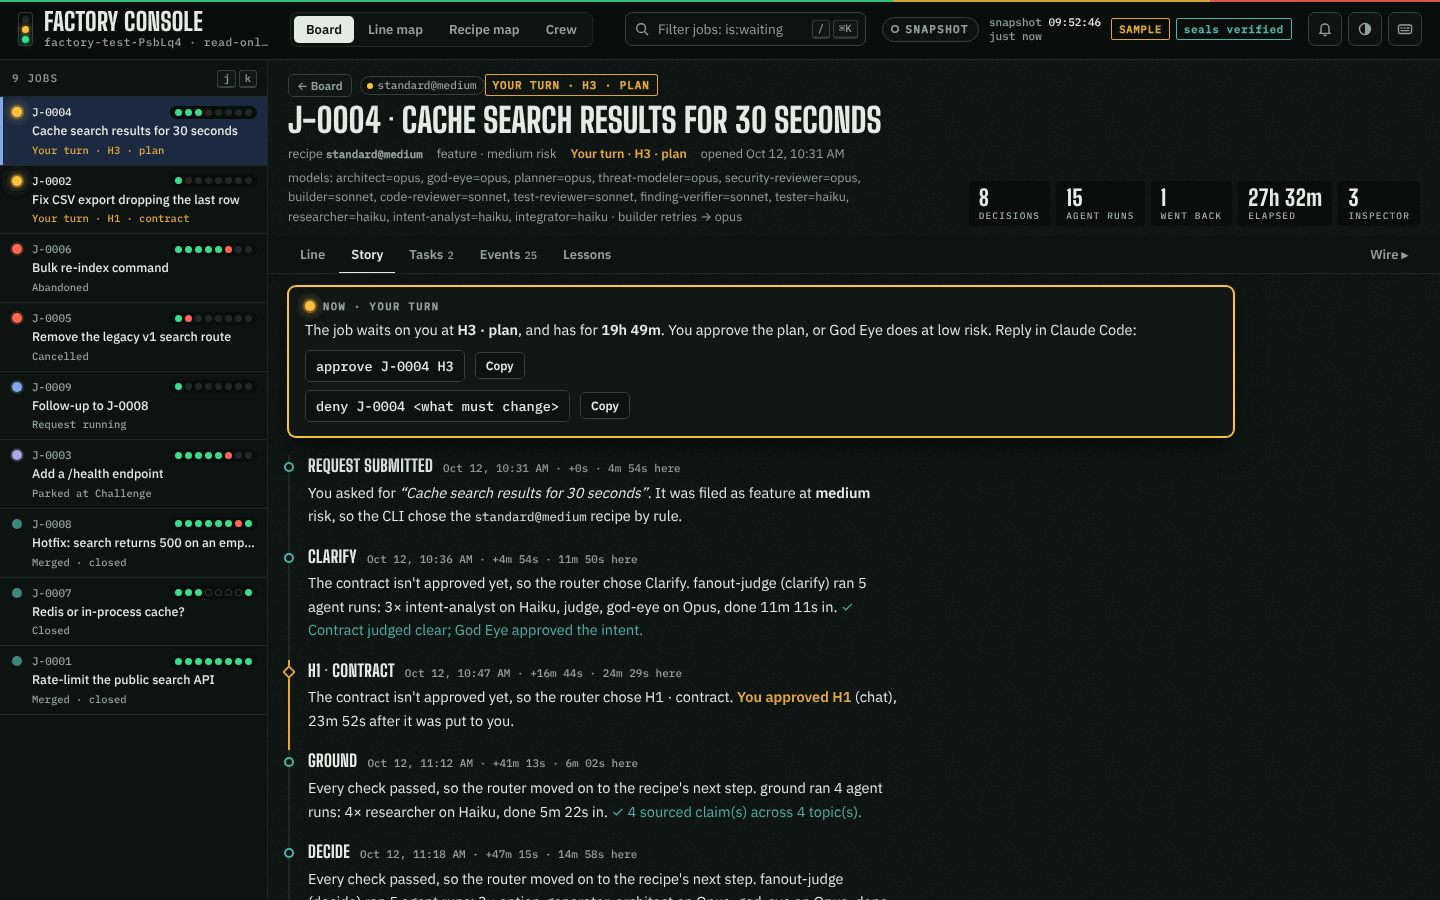
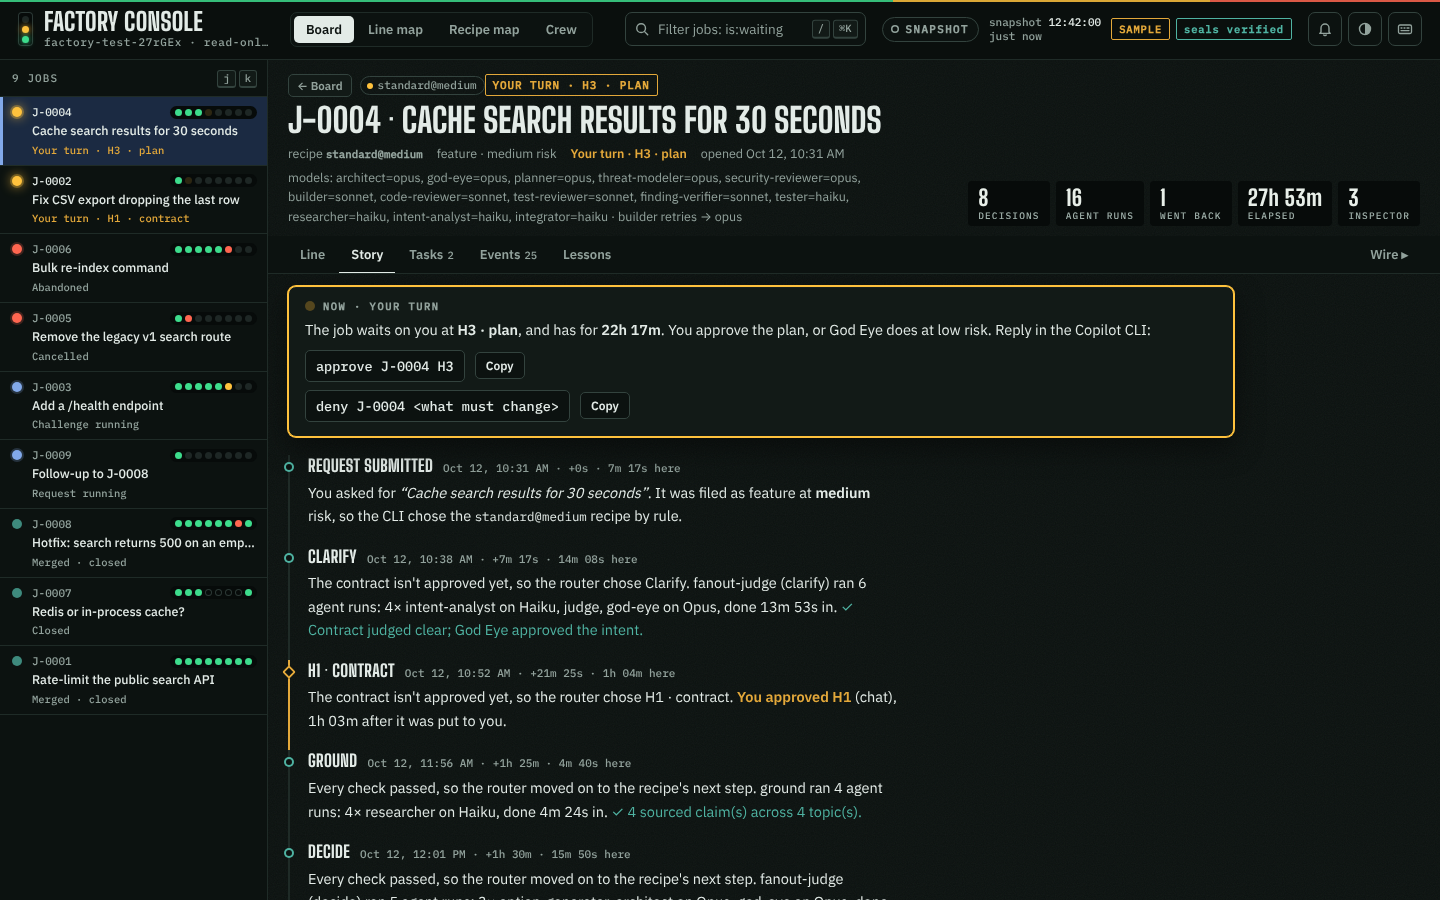
Console: last stop-gate string, and re-shoot the story screenshots
job-story.png and mobile-job.png showed "Reply in Claude Code"; re-shot
from a fresh make-sample run (J-0004 Story, dark, same framing). No other
screenshot showed Claude.

Claude-Session: https://claude.ai/code/session_01MbyTBaFa88Yi7VfMUdz5Cy

diff --git a/plugins/factory/cli/core/console.js b/plugins/factory/cli/core/console.js
@@ -339,7 +339,7 @@ function build(root, { job: only, now } = {}) {
       return { findings: f.length, open: f.filter((x) => x.status === 'open').length, runs: (reg.runs || []).length, last_run: (reg.runs || []).slice(-1)[0] ? reg.runs.slice(-1)[0].at || null : null, health };
     })(),
     // log lines that belong to no job: hooks failing outside a job, unparsed replies
-    factory_events: all.events.filter((e) => !e.job && ['hook_error', 'reply_unparsed', 'stop_block'].includes(e.event)).slice(-100).map((e) => ({ t: e.ts, type: e.event === 'reply_unparsed' ? 'unparsed' : e.event, text: short(e.event === 'hook_error' ? `The ${e.hook || 'factory'} hook failed${e.tool ? ` on ${e.tool}` : ''}: ${e.message || ''}` : e.event === 'reply_unparsed' ? `A message looked like "${e.verb || 'a reply'}" but was not applied ("${e.word || ''}")` : `The Stop hook refused a "done" claim`, 200) })),
+    factory_events: all.events.filter((e) => !e.job && ['hook_error', 'reply_unparsed', 'stop_block'].includes(e.event)).slice(-100).map((e) => ({ t: e.ts, type: e.event === 'reply_unparsed' ? 'unparsed' : e.event, text: short(e.event === 'hook_error' ? `The ${e.hook || 'factory'} hook failed${e.tool ? ` on ${e.tool}` : ''}: ${e.message || ''}` : e.event === 'reply_unparsed' ? `A message looked like "${e.verb || 'a reply'}" but was not applied ("${e.word || ''}")` : `The stop gate sent the agent back to work`, 200) })),
     integrity: checker.hasKey ? { ...checker.tally, status: checker.tally.invalid ? 'tampered' : 'verified' } : { status: 'not_checked' },
     jobs,
   };
@@ -387,7 +387,7 @@ function fingerprint(root) {
 }
 
 // factory console --serve: the same page over http://127.0.0.1, kept current. Hooks and the
-// CLI append to .factory/ as Claude works; the server notices within `interval` ms and
+// CLI append to .factory/ as Copilot works; the server notices within `interval` ms and
 // pushes the rebuilt data to every open page over server-sent events. Still read-only.
 function serve(root, { port = 4477, job, label, interval = 400, onReady } = {}) {
   const http = require('http');
